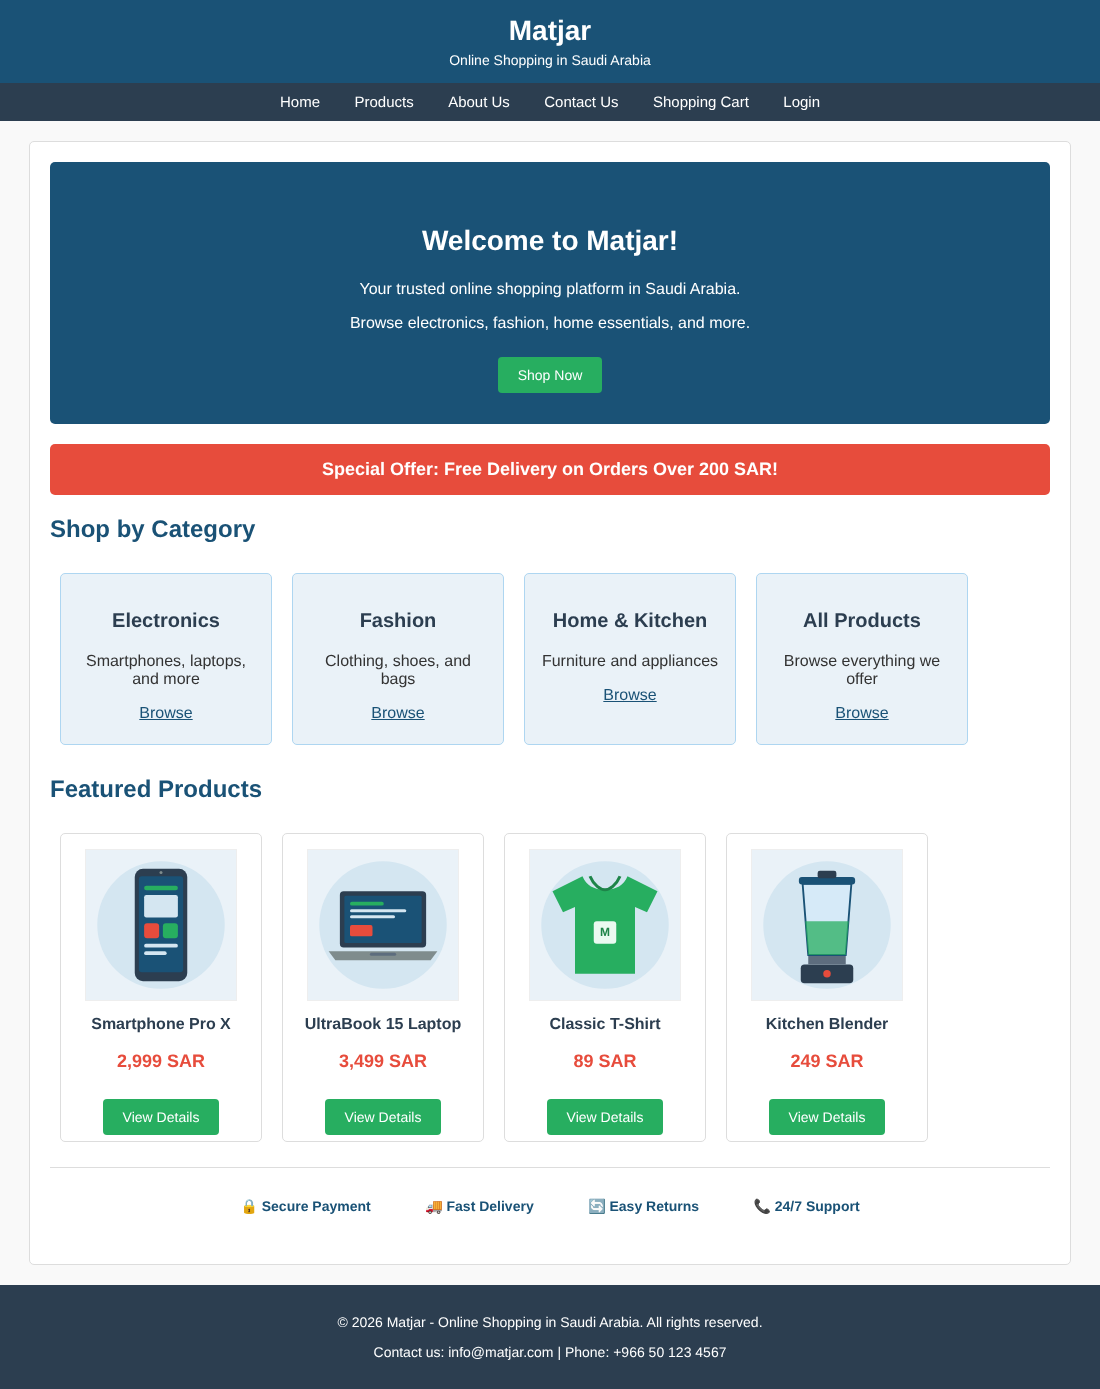
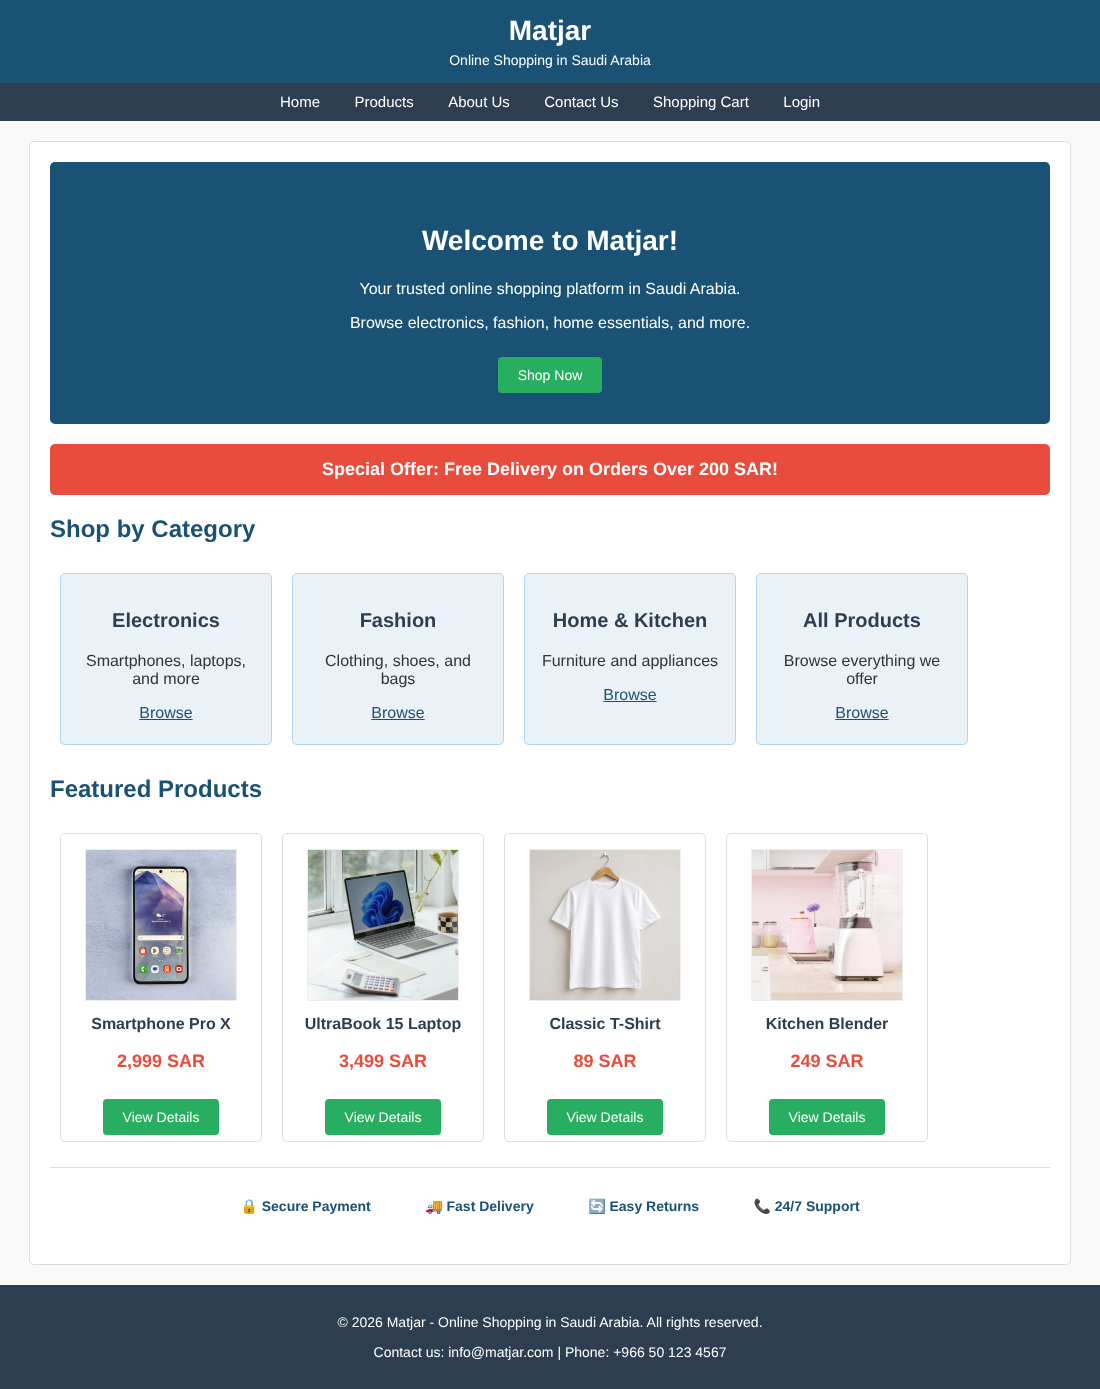
Use real product photos (Unsplash) instead of SVG illustrations
Claude-Session: https://claude.ai/code/session_01NEgUPmooorw6E3J3fjz1eE

diff --git a/products.html b/products.html
@@ -34,7 +34,7 @@
         <h3>Electronics</h3>
 
         <div class="product-card">
-            <img src="images/smartphone.svg" alt="Smartphone Pro X" width="150" height="150">
+            <img src="images/smartphone.jpg" alt="Smartphone Pro X" width="150" height="150">
             <h3>Smartphone Pro X</h3>
             <p class="price">2,999 SAR</p>
             <br>
@@ -42,7 +42,7 @@
         </div>
 
         <div class="product-card">
-            <img src="images/laptop.svg" alt="UltraBook 15 Laptop" width="150" height="150">
+            <img src="images/laptop.jpg" alt="UltraBook 15 Laptop" width="150" height="150">
             <h3>UltraBook 15 Laptop</h3>
             <p class="price">3,499 SAR</p>
             <br>
@@ -55,7 +55,7 @@
         <h3>Fashion</h3>
 
         <div class="product-card">
-            <img src="images/tshirt.svg" alt="Classic T-Shirt" width="150" height="150">
+            <img src="images/tshirt.jpg" alt="Classic T-Shirt" width="150" height="150">
             <h3>Classic T-Shirt</h3>
             <p class="price">89 SAR</p>
             <br>
@@ -68,7 +68,7 @@
         <h3>Home &amp; Kitchen</h3>
 
         <div class="product-card">
-            <img src="images/blender.svg" alt="Kitchen Blender" width="150" height="150">
+            <img src="images/blender.jpg" alt="Kitchen Blender" width="150" height="150">
             <h3>Kitchen Blender</h3>
             <p class="price">249 SAR</p>
             <br>

diff --git a/index.html b/index.html
@@ -78,7 +78,7 @@
         <h2>Featured Products</h2>
 
         <div class="product-card">
-            <img src="images/smartphone.svg" alt="Smartphone Pro X" width="150" height="150">
+            <img src="images/smartphone.jpg" alt="Smartphone Pro X" width="150" height="150">
             <h3>Smartphone Pro X</h3>
             <p class="price">2,999 SAR</p>
             <br>
@@ -86,7 +86,7 @@
         </div>
 
         <div class="product-card">
-            <img src="images/laptop.svg" alt="UltraBook 15 Laptop" width="150" height="150">
+            <img src="images/laptop.jpg" alt="UltraBook 15 Laptop" width="150" height="150">
             <h3>UltraBook 15 Laptop</h3>
             <p class="price">3,499 SAR</p>
             <br>
@@ -94,7 +94,7 @@
         </div>
 
         <div class="product-card">
-            <img src="images/tshirt.svg" alt="Classic T-Shirt" width="150" height="150">
+            <img src="images/tshirt.jpg" alt="Classic T-Shirt" width="150" height="150">
             <h3>Classic T-Shirt</h3>
             <p class="price">89 SAR</p>
             <br>
@@ -102,7 +102,7 @@
         </div>
 
         <div class="product-card">
-            <img src="images/blender.svg" alt="Kitchen Blender" width="150" height="150">
+            <img src="images/blender.jpg" alt="Kitchen Blender" width="150" height="150">
             <h3>Kitchen Blender</h3>
             <p class="price">249 SAR</p>
             <br>

diff --git a/product1.html b/product1.html
@@ -34,7 +34,7 @@
 
             <!-- Product Image -->
             <div class="product-image">
-                <img src="images/smartphone.svg" alt="Smartphone Pro X" width="300" height="300">
+                <img src="images/smartphone.jpg" alt="Smartphone Pro X" width="300" height="300">
             </div>
 
             <!-- Product Information -->

diff --git a/product2.html b/product2.html
@@ -34,7 +34,7 @@
 
             <!-- Product Image -->
             <div class="product-image">
-                <img src="images/laptop.svg" alt="UltraBook 15 Laptop" width="300" height="300">
+                <img src="images/laptop.jpg" alt="UltraBook 15 Laptop" width="300" height="300">
             </div>
 
             <!-- Product Information -->

diff --git a/product4.html b/product4.html
@@ -34,7 +34,7 @@
 
             <!-- Product Image -->
             <div class="product-image">
-                <img src="images/blender.svg" alt="Kitchen Blender" width="300" height="300">
+                <img src="images/blender.jpg" alt="Kitchen Blender" width="300" height="300">
             </div>
 
             <!-- Product Information -->

diff --git a/product3.html b/product3.html
@@ -34,7 +34,7 @@
 
             <!-- Product Image -->
             <div class="product-image">
-                <img src="images/tshirt.svg" alt="Classic T-Shirt" width="300" height="300">
+                <img src="images/tshirt.jpg" alt="Classic T-Shirt" width="300" height="300">
             </div>
 
             <!-- Product Information -->

diff --git a/README.md b/README.md
@@ -33,6 +33,10 @@ index.html  products.html  product1-4.html  about.html  contact.html  cart.html 
 style.css   main.js        images/
 ```
 
+## Image credits
+Product photos are from [Unsplash](https://unsplash.com) (free to use under the Unsplash License):
+smartphone photo by Andrey Matveev, T-shirt photo by Avtar Singh, laptop and blender photos from Unsplash contributors.
+
 ## Team
 Ali Yousef Alalawi, Mohammed Abdullah Alramadhan, Ahmed Hussain Alsaeed,
 Hassan Abdullah Alsuhayyih, Mohammed Waled, Youssef Alattiyah
